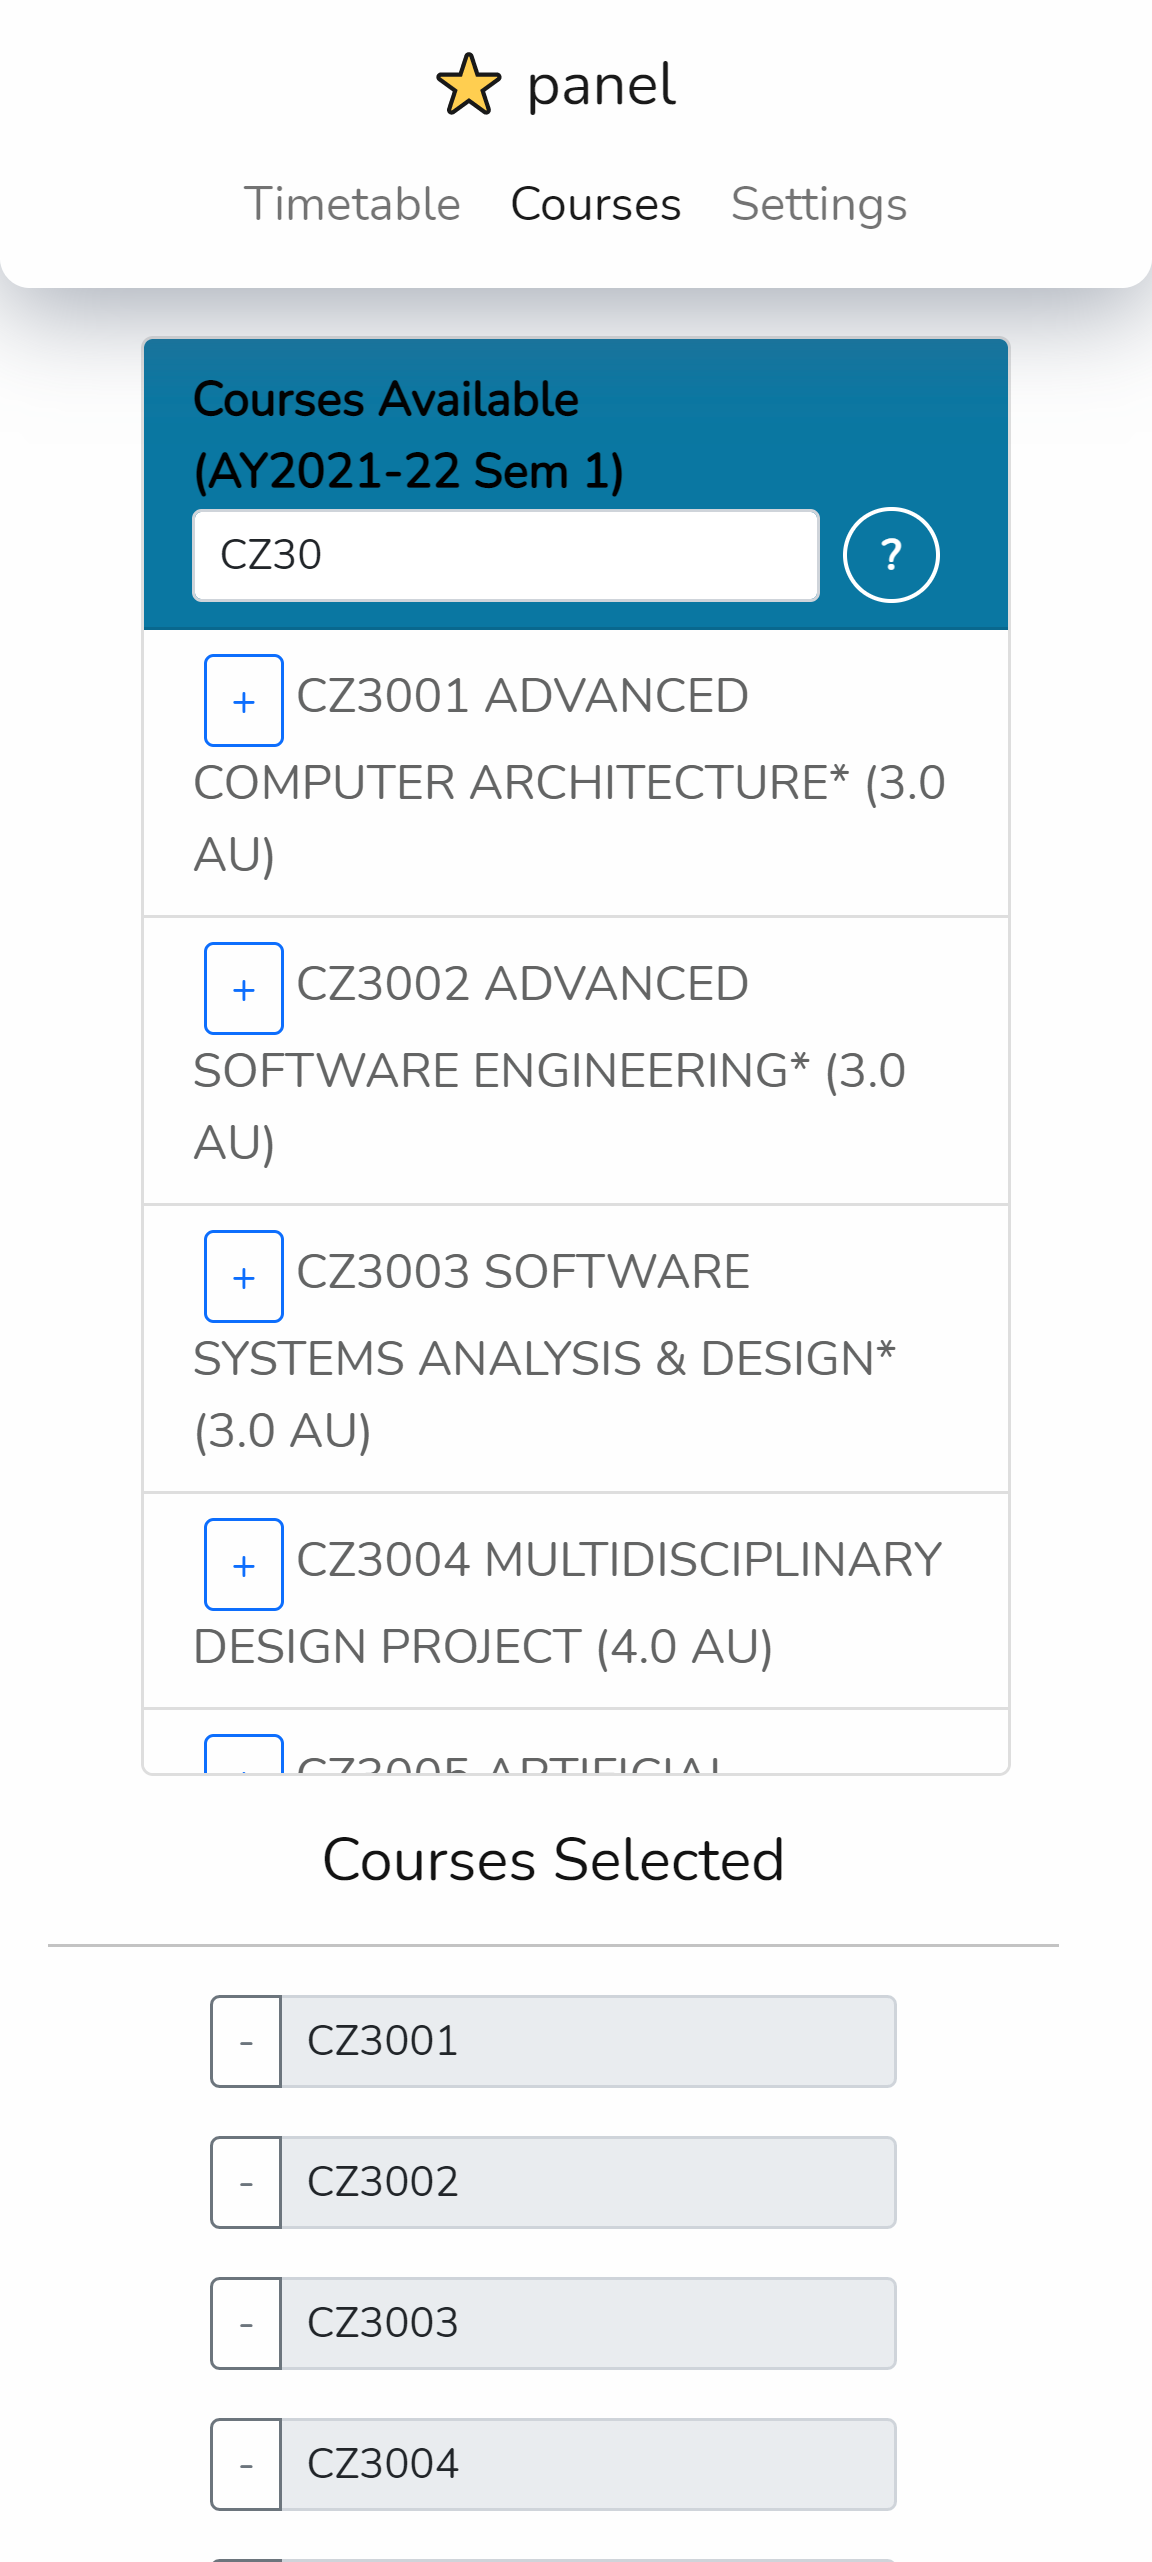
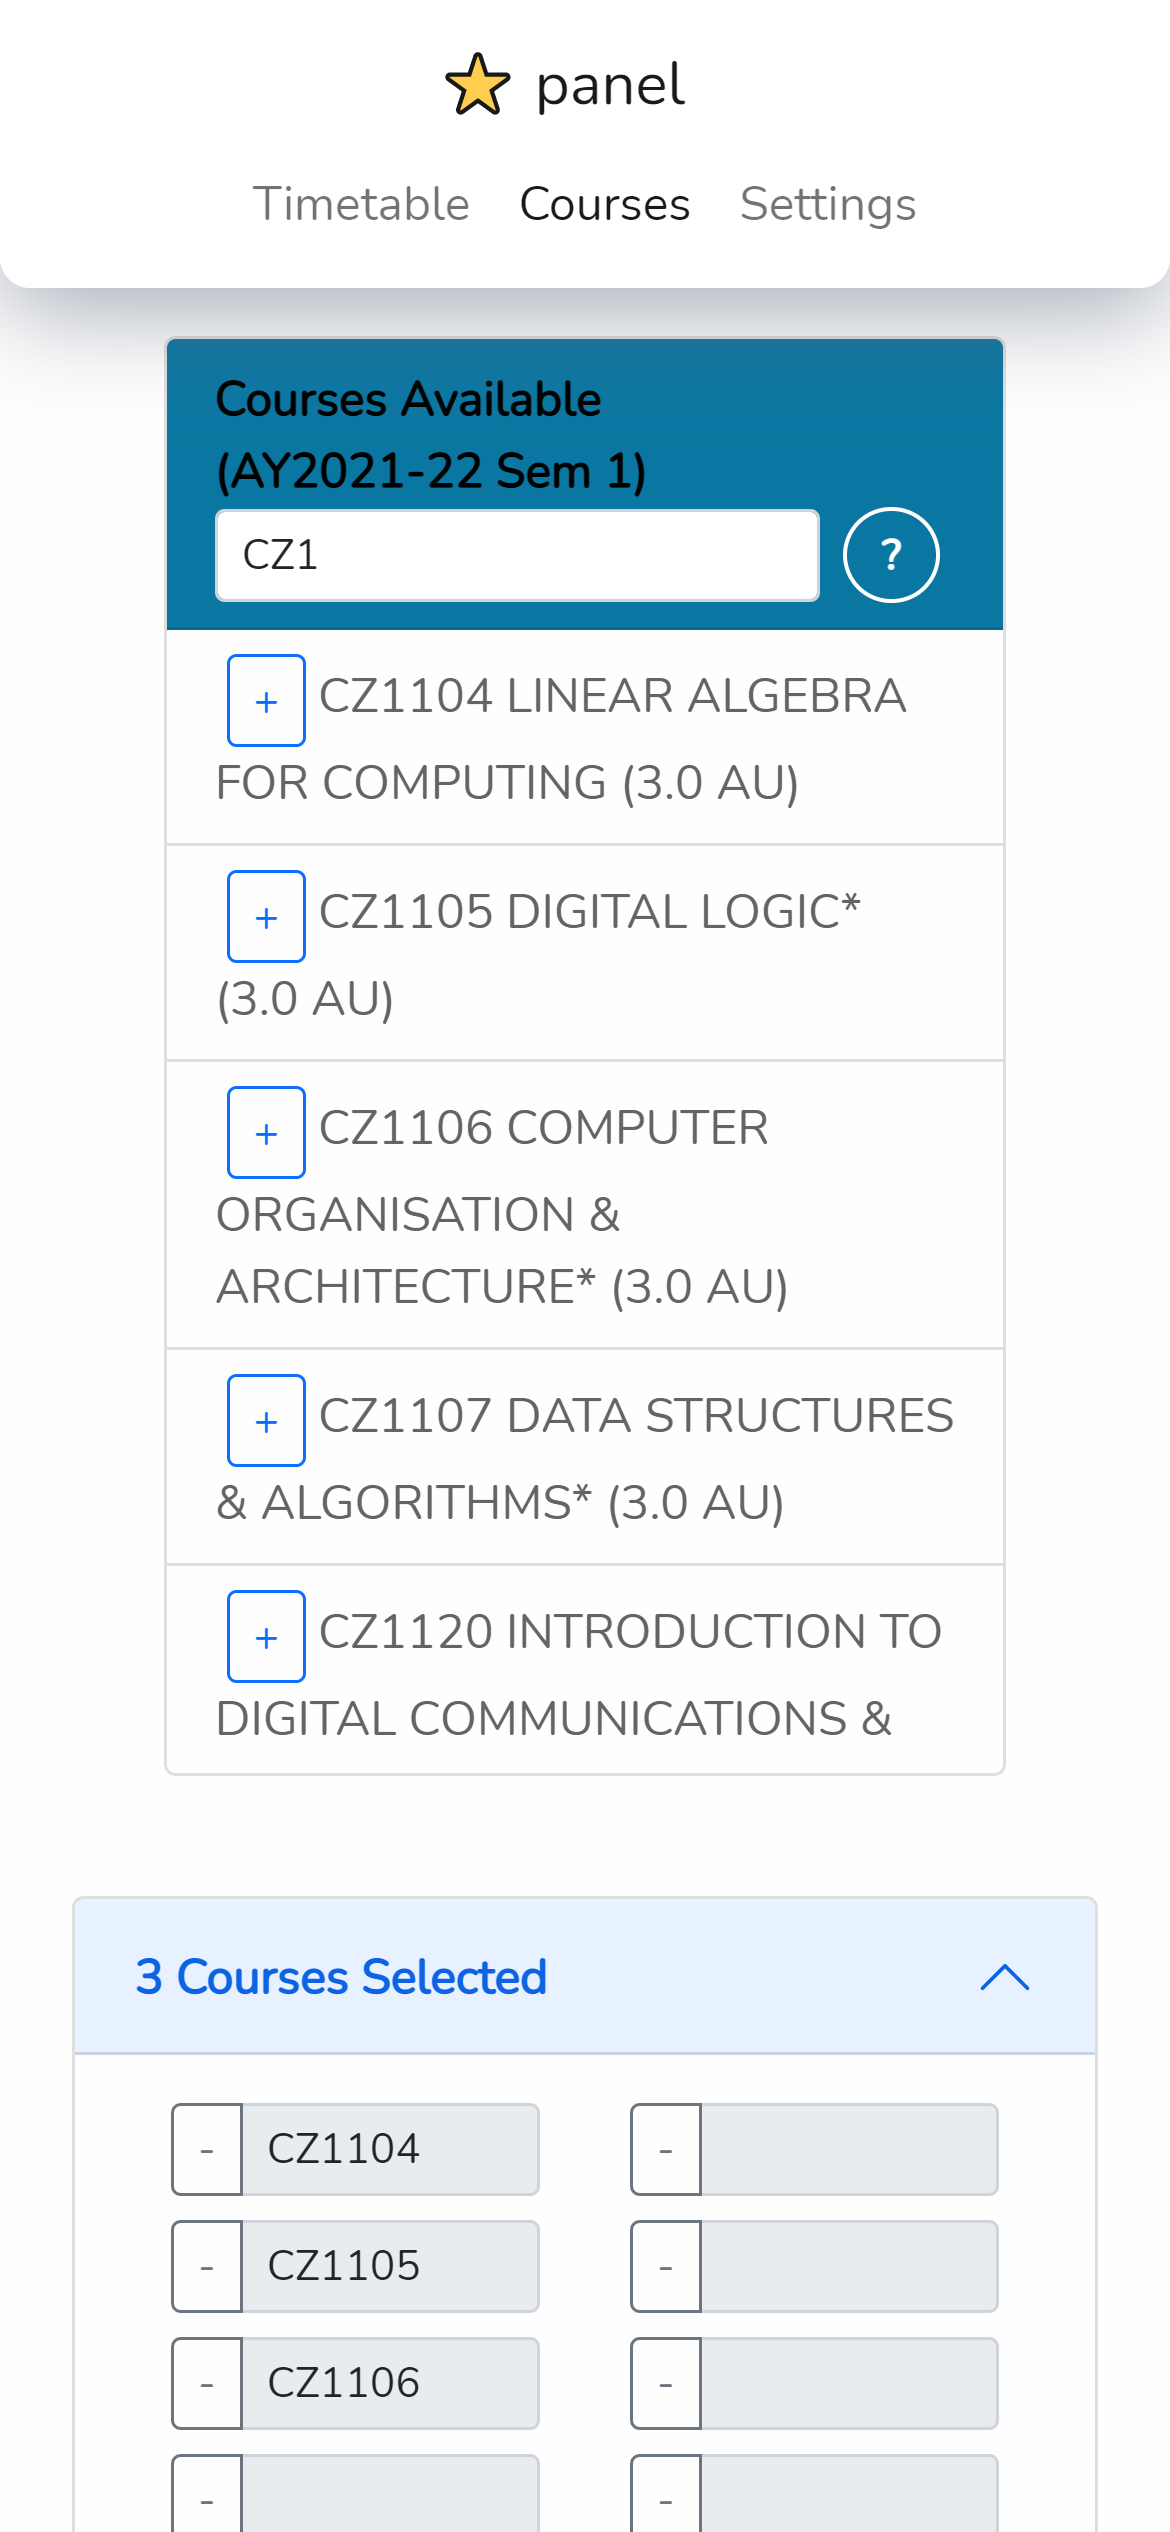
Accordion for course input group, more colours for lessons, spinner

diff --git a/client/src/pages/CourseSelectionPage.js b/client/src/pages/CourseSelectionPage.js
@@ -6,7 +6,8 @@ import Row from 'react-bootstrap/Row';
 import Col from 'react-bootstrap/Col';
 import Button from 'react-bootstrap/Button';
 import Alert from 'react-bootstrap/Alert';
-import Offcanvas from 'react-bootstrap/Offcanvas'
+import Accordion from 'react-bootstrap/Accordion';
+import Spinner from 'react-bootstrap/Spinner';
 
 import CourseInputGroup from '../components/CourseInputGroup';
 import CourseDatabase from '../components/CourseDatabase';
@@ -22,7 +23,7 @@ import { CustomisationContext } from '../contexts/CustomisationContext';
 
 function CourseSelectionPage() {
 
-  const { selectedCourses, setSelectedCourses } = useContext(SelectedCoursesContext);
+  const { selectedCourses } = useContext(SelectedCoursesContext);
   const { setTimetablePlans } = useContext(TimetablePlansContext);
   const { setCurrentPlan } = useContext(CurrentPlanContext);
   const { chosenIndexes, freeTimes, miscConstraints } = useContext(ConstraintsContext);
@@ -36,7 +37,7 @@ function CourseSelectionPage() {
   const history = useHistory();
 
   async function retrieveTimetablePlans() {
-    setButtonText("Generating....");
+    setButtonText("Generating...");
     if (selectedCourses.some(selectedCourse => selectedCourse !== "")){
       let generated = await TimetablesGenerator.generateAll(selectedCourses, chosenIndexes, freeTimes, miscConstraints);
       if (generated.canGenerate && generated.timetables.length !== 0) {
@@ -70,11 +71,6 @@ function CourseSelectionPage() {
     window.scrollTo(0, 0);
   }
 
-  // for displaying selected courses offcanvas for mobile
-  const [show, setShow] = useState(false);
-  const handleClose = () => setShow(false);
-  const handleShow = () => setShow(true);
-
   return (
     <Container fluid className={`pt-3 main ${customOptions.displaySetting}`}>
     
@@ -95,21 +91,9 @@ function CourseSelectionPage() {
         <Col xs={12} lg={9} className="d-flex flex-column align-items-center">
           <CourseDatabase/>
         </Col>
-        {window.innerWidth > 992 ? 
-          <SelectedCourses retrieveTimetablePlans={retrieveTimetablePlans} setSelectedCourses={setSelectedCourses} buttonText={buttonText} />
-        :
-          <Row className="d-flex justify-content-center mt-3">
-            <Button className="w-50" variant="outline-primary m-1" onClick={handleShow}>
-              Selected Courses
-            </Button>
-            <Offcanvas show={show} onHide={handleClose} placement="end">
-              <Offcanvas.Body>
-                <SelectedCourses retrieveTimetablePlans={retrieveTimetablePlans} setSelectedCourses={setSelectedCourses} buttonText={buttonText} onHide={handleClose}/>
-              </Offcanvas.Body>
-            </Offcanvas>
-          </Row>
-        }
-        
+        <SelectedCourses 
+        retrieveTimetablePlans={retrieveTimetablePlans}
+        buttonText={buttonText} />
       </Container>
 
       <Container fluid className="mt-4 mb-2">
@@ -120,36 +104,65 @@ function CourseSelectionPage() {
   );
 }
 
-const SelectedCourses = ({ retrieveTimetablePlans, setSelectedCourses, buttonText, onHide }) => {
-  return (
-    <Col xs={12} lg={3} className="pt-3 pl-0">
-      <h5 className="text-center">Courses Selected</h5>
-      <hr/>
-      <CourseInputGroup/>
-      <Row className="d-flex justify-content-center">
-        <Button 
-          className="w-50"
-          variant="outline-primary m-1"
-          onClick={() => retrieveTimetablePlans()}>
-          {buttonText}
-        </Button>
-        <Button 
-          className="w-50"
-          variant="outline-primary m-1"
-          onClick={() => setSelectedCourses(Array(12).fill(""))}>
-          Clear All
-        </Button>
-        {onHide && 
+const SelectedCourses = ({ retrieveTimetablePlans, buttonText }) => {
+
+  const { selectedCourses, setSelectedCourses } = useContext(SelectedCoursesContext);
+  const { customOptions } = useContext(CustomisationContext);
+
+  const InputGroup = () => {
+    return(
+      <>
+        <CourseInputGroup/>
+        <Row className="d-flex justify-content-center">
           <Button 
-            className="w-50"
+            className="w-75"
             variant="outline-primary m-1"
-            onClick={onHide}>
-            Hide
+            onClick={() => retrieveTimetablePlans()}>
+            {buttonText === "Generating..." ? 
+            <Spinner
+              as="span"
+              animation="grow"
+              size="sm"
+              role="status"
+              aria-hidden="true"
+              className="mr-2"
+            /> : null}
+            {buttonText}
           </Button>
-        }
-      </Row>
-    </Col>
-  )
+          <Button 
+            className="w-75"
+            variant="outline-primary m-1"
+            onClick={() => setSelectedCourses(Array(12).fill(""))}>
+            Clear All
+          </Button>
+        </Row>
+      </>
+    )
+  }
+
+  if (window.innerWidth < 992)
+    return (
+      <Col xs={12} lg={3} className="pt-3 pl-0 px-0">
+      <Accordion className="pt-4">
+      <Accordion.Item eventKey="course-input" className={customOptions.displaySetting}>
+        <Accordion.Header><strong>{`${selectedCourses.reduce((a,v) => (v !== "" ? a + 1 : a), 0)} Courses Selected`}</strong></Accordion.Header>
+        <Accordion.Body>
+          <InputGroup/>
+        </Accordion.Body>
+      </Accordion.Item>
+      </Accordion>
+      </Col>
+    )
+
+  else {
+    return (
+      <Col xs={12} lg={3} className="pt-3 pl-0">
+        <h5 className="text-center">{`${selectedCourses.reduce((a,v) => (v !== "" ? a + 1 : a), 0)} Courses Selected`}</h5>
+        <hr/>
+        <InputGroup/>
+      </Col>
+    )
+  }
 }
 
 export default CourseSelectionPage;

diff --git a/client/src/components/CourseInputGroup.js b/client/src/components/CourseInputGroup.js
@@ -1,6 +1,7 @@
 import React, { useContext } from 'react';
 
 import Container from 'react-bootstrap/Container';
+import Col from 'react-bootstrap/Col';
 
 import CourseInput from './CourseInput';
 import { SelectedCoursesContext } from '../contexts/SelectedCoursesContext';
@@ -8,10 +9,18 @@ import { SelectedCoursesContext } from '../contexts/SelectedCoursesContext';
 function CourseInputGroup() {
     const { selectedCourses } = useContext(SelectedCoursesContext);
     return (
-        <Container className="w-75">
-            {[...Array(12)].map((value, index) => (
-                <CourseInput index={index} course={selectedCourses[index]} key={`course-input-${index}`}/>
-            ))}
+        <Container className="w-100 d-flex">
+            <Col className="pl-0">
+                {[...Array(6)].map((value, index) => (
+                    <CourseInput index={index} course={selectedCourses[index]} key={`course-input-${index}`}/>
+                ))}
+            </Col>
+            <Col className="pr-0">
+                {[...Array(6)].map((value, index) => (
+                    <CourseInput index={index+6} course={selectedCourses[index+6]} key={`course-input-${index+6}`}/>
+                ))}
+            </Col>
+            
         </Container>
     );
   }

diff --git a/client/src/components/timetable/Timetable.js b/client/src/components/timetable/Timetable.js
@@ -8,15 +8,25 @@ import { CustomisationContext } from '../../contexts/CustomisationContext';
 import Lesson from './Lesson';
 import OverlappedLessons from './OverlappedLessons';
 
-//https://flatuicolors.com/palette/tr
+
 const COLORS = [
+  //https://flatuicolors.com/palette/tr
   "#17c0eb", //Spiro Disco Ball
   "#cd84f1", //Bright Lilac
   "#ffaf40", //Mandarin Sorbet
   "#3ae374", //Weird Green
-  "#67e6dc", //Hammam Blue
+  "#7efff5", //Electric Blue
   "#ffb8b8", //Young Salmon
   "#ff4d4d", //Light Red
+
+  //https://flatuicolors.com/palette/es
+  "#706fd3", //C64 Purple
+  "#ccae62", //Desert
+  "#ff793f", //Synthetic Pumpkin
+
+  //https://flatuicolors.com/palette/defo
+  "#16a085", //Green Sea
+  "#8e44ad", //Wisteria
 ]
 
 function Timetable() {

diff --git a/client/src/contexts/SelectedCoursesContext.js b/client/src/contexts/SelectedCoursesContext.js
@@ -7,8 +7,9 @@ const SelectedCoursesContextProvider = (props) => {
     const [selectedCourses, setSelectedCourses] = useState(Array(12).fill(""));
 
     //Add selected course to current array of selected courses
+    //Only add if courses has not been added and there is empty course input
     const addSelection = (courseCode) => {
-        if (!selectedCourses.includes(courseCode)){
+        if (!selectedCourses.includes(courseCode) && (selectedCourses.some(course => course === ""))){
             let emptySlot = selectedCourses.indexOf("");
             setSelectedCourses([...selectedCourses.slice(0, emptySlot), courseCode, ...selectedCourses.slice(emptySlot+1)]);
         }

diff --git a/client/src/components/CourseDatabase.js b/client/src/components/CourseDatabase.js
@@ -41,7 +41,7 @@ function CourseDatabase() {
   );
   
   return (
-    <Card className={`retrievedCourses ${customOptions.displaySetting}`} style={{height: "45rem"}} border={customOptions.displaySetting === "lightMode" ? "" : "secondary"}>
+    <Card className={`retrievedCourses ${customOptions.displaySetting}`} style={{height: "30rem"}} border={customOptions.displaySetting === "lightMode" ? "" : "secondary"}>
       <Card.Header className="database-title font-weight-bold">
         <Row className="align-items-center">
           <Col sm={7} xs={9}> 

diff --git a/client/src/pages/SettingsPage.js b/client/src/pages/SettingsPage.js
@@ -82,7 +82,7 @@ function SettingsPage() {
         may the force be with you
       </Row>
       <Row className="d-flex justify-content-center font-italic">
-        ~ Version 1.1.0 ~
+        ~ Version 1.2.0 ~
       </Row>
       <Row className="d-flex justify-content-center font-italic">
         <span className="text-center">

diff --git a/client/src/components/CourseInput.js b/client/src/components/CourseInput.js
@@ -16,7 +16,7 @@ function CourseInput(props) {
     }
 
     return (
-        <InputGroup className="mb-3">
+        <InputGroup className="mb-2">
             <Button 
                 variant="outline-secondary" 
                 id="selection1"

diff --git a/CHANGELOG.md b/CHANGELOG.md
@@ -26,3 +26,19 @@ Any new suggestions are welcomed.
 ### Removed
 
 - timetable download feature, did not work as intended on some browsers
+
+## [1.2.0] - 2021-08-09
+
+### Added
+
+- more colours for courses to accomodate 12 courses
+- spinner in button for generating plans
+
+### Changed
+
+- CourseInputGroup to show two columns of 6 inputs each
+- CourseInputGroup to be rendered in an Accordion for smaller screens
+
+### Fixed
+
+- bug for adding courses when CourseInputGroup is full
